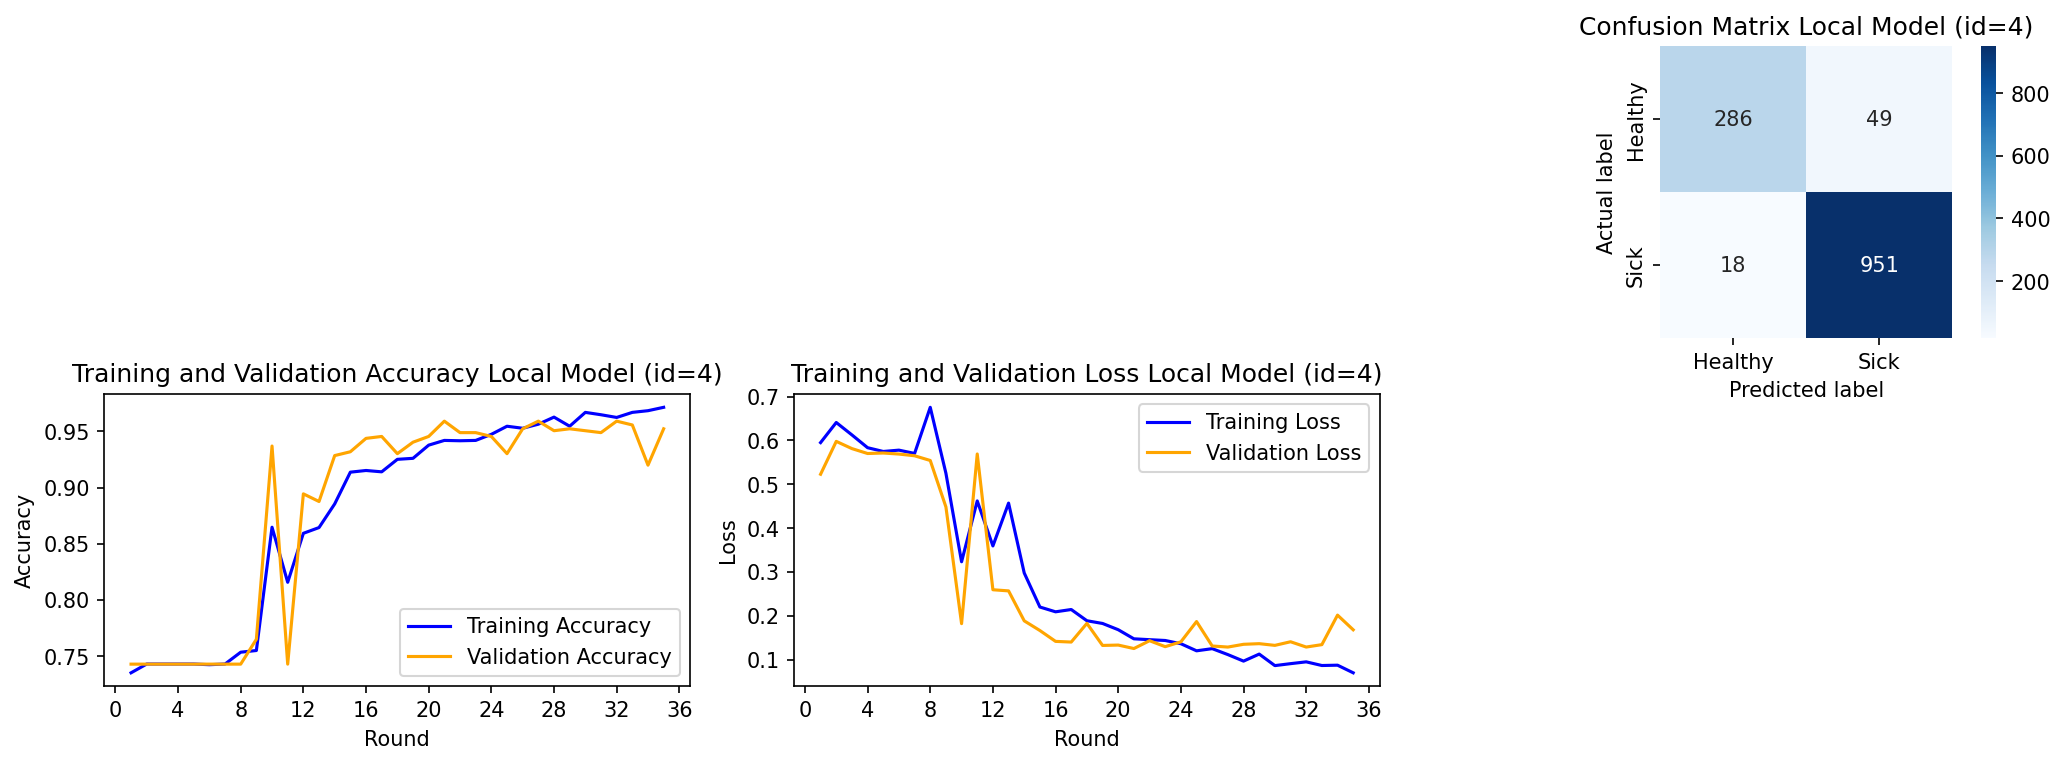
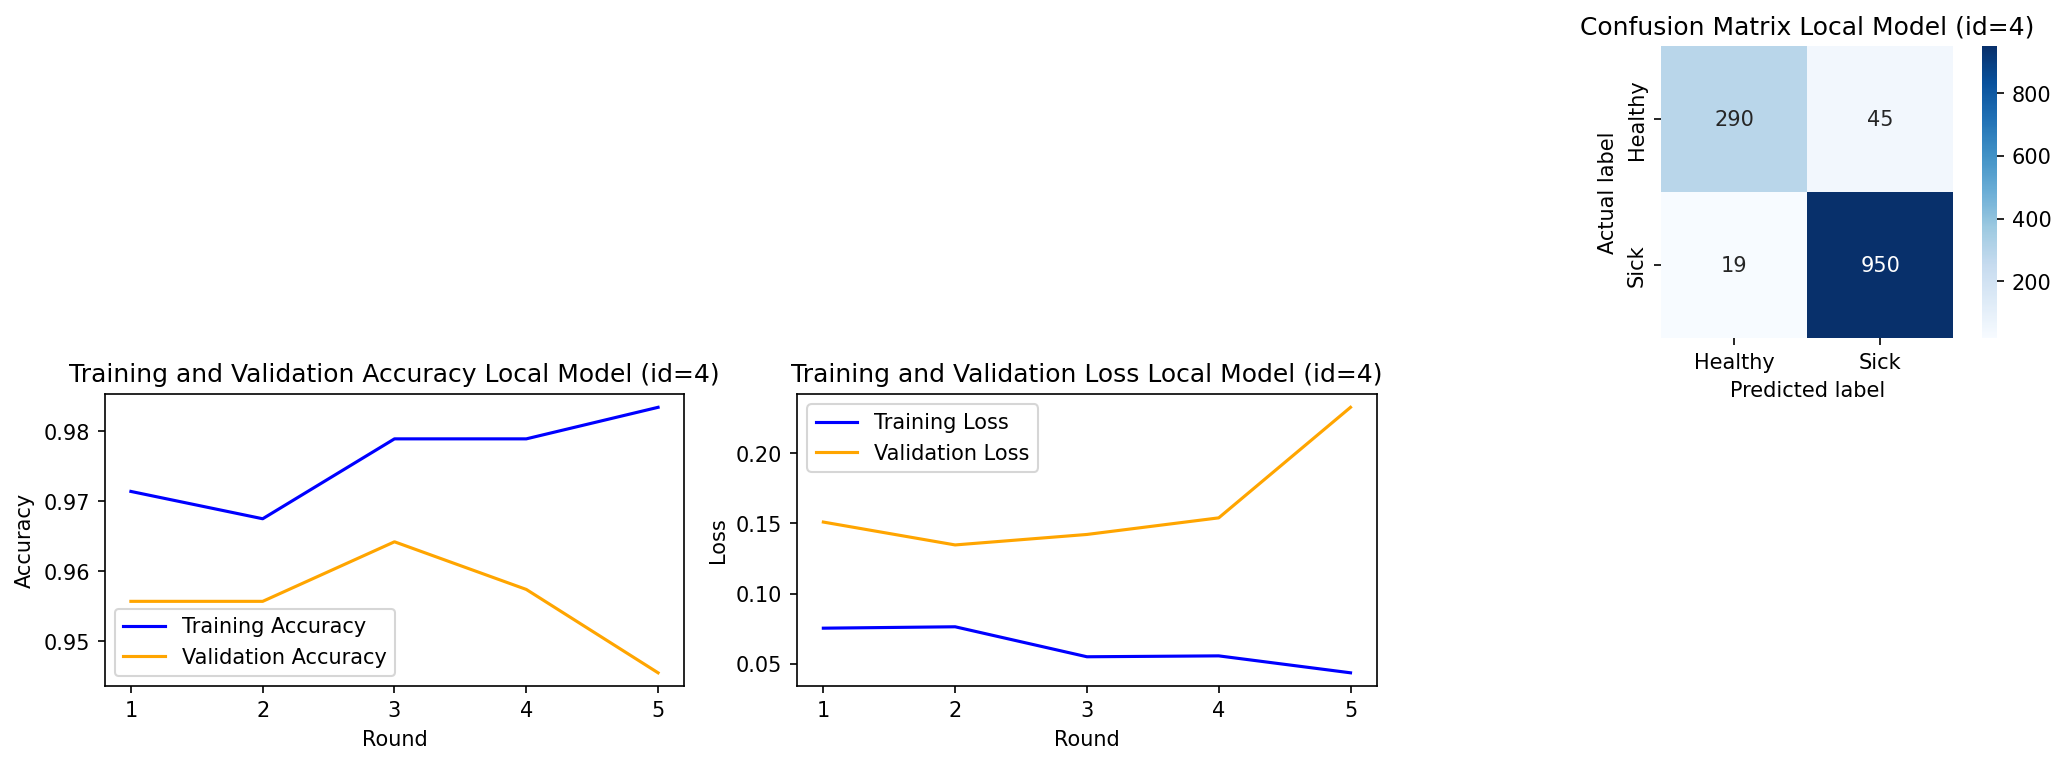
OOD Exp3

diff --git a/project/main.py b/project/main.py
@@ -493,6 +493,110 @@ class Experiment2Simulation():
         return federated.run()
  
  
+class Experiment3Simulation():
+    """
+    3.4.3 Experiment 3: 4 ID local models + 1 OOD local model with complete poisoned dataset.
+    OOD detection ENABLED.
+ 
+    Setup:
+      - Global model (id=0): loads pre-trained weights, tests on all 4 ID datasets.
+      - Local model  (id=1): Btumor4600()        — full ID dataset
+      - Local model  (id=2): Btumor3000()        — full ID dataset
+      - Local model  (id=3): Balzheimer5100()    — full ID dataset
+      - Local model  (id=4): Lpneumonia5200()    — full ID dataset
+      - Local model  (id=5): Balzheimer5100_poisoned() — complete label-flipped OOD dataset
+ 
+    OOD detection is active from round 1. The HDFF mechanism compares each local
+    model's feature bundle to the global model's. If cosine similarity drops below
+    ood_protection_thres (0.7), that client is excluded from FedAvg.
+ 
+    Expected result:
+      - Local model id=5 is identified as OOD every round (similarity << 0.7).
+      - The 4 clean local models contribute normally to FedAvg.
+      - Global model accuracy remains stable or improves across all 5 rounds.
+ 
+    IMPORTANT: Run PreTrainingSimulation first to generate saved weights.
+    """
+    LOAD_ROUND = 35
+    SAVE_PATH  = "./.env/.saved/"
+ 
+    federated_config = ConfigFederated(
+        debug          = True,
+        save           = False,
+        load_round     = LOAD_ROUND,
+        load_reg       = True,                        # Sync all locals from global after load
+        load           = True,                        # Load pre-trained global model
+        delete_on_load = False,
+        path           = SAVE_PATH,
+        rounds         = 5,
+        ood_round      = 1,                           # OOD detection active from round 1
+        clients        = 6,                           # global(0) + 4 ID locals + 1 OOD local
+        participants   = 5,                           # All 5 local clients participate each round
+        host_id        = 0,
+        client_to_dataset = [[0,1,2,3],[0],[1],[2],[3],[4]]
+        # global: all 4 ID datasets for evaluation
+        # local 1 → Btumor4600 (dataset idx 0)
+        # local 2 → Btumor3000 (dataset idx 1)
+        # local 3 → Balzheimer5100 (dataset idx 2)
+        # local 4 → Lpneumonia5200 (dataset idx 3)
+        # local 5 → Balzheimer5100_poisoned (dataset idx 4)  ← OOD
+    )
+    ood_config = ConfigOod(
+        debug               = True,
+        hdc_debug           = False,
+        enabled             = True,                   # OOD detection ENABLED
+        hyper_size          = int(1e4),
+        id_client           = [1, 2, 3, 4],           # Clean local clients
+        ood_client          = [5],                    # Poisoned OOD client
+        ood_protection      = True,                   # Exclude detected OOD clients from FedAvg
+        ood_protection_thres= 0.7                     # Similarity < 0.7 → client is OOD
+    )
+    model_config = ConfigModel(
+        debug          = True,
+        epochs         = 1,
+        activation     = 'relu',
+        activation_out = 'softmax',
+        optimizer      = 'adam',
+        loss           = 'categorical_crossentropy'
+    )
+    dataset_config = ConfigDataset(
+        debug           = False,
+        batch_size      = 64,
+        image_size      = 256,
+        input_shape     = (256,256,1),
+        split           = 0.25,
+        number_of_classes = 2
+    )
+    plot_config = ConfigPlot(plot=False, path='./.env/plot', img_per_class=10)
+ 
+    def run(self):
+        m = Model(
+            model_config   = self.model_config,
+            dataset_config = self.dataset_config,
+            plot_config    = self.plot_config
+        )
+        dataset = Dataset(
+            [
+                (Btumor4600().ID,    Btumor4600(),    []),                        # idx 0  (ID)
+                (Btumor3000().ID,    Btumor3000(),    []),                        # idx 1  (ID)
+                (Balzheimer5100().ID, Balzheimer5100(), []),                      # idx 2  (ID)
+                (Lpneumonia5200().ID, Lpneumonia5200(), []),                      # idx 3  (ID)
+                (Balzheimer5100_poisoned().ID, Balzheimer5100_poisoned(), []),    # idx 4  (OOD)
+            ],
+            dataset_config = self.dataset_config,
+            plot_config    = self.plot_config
+        )
+        federated = Federated(
+            dataset          = dataset,
+            model            = m,
+            federated_config = self.federated_config,
+            ood_config       = self.ood_config,
+            dataset_config   = self.dataset_config,
+            plot_config      = self.plot_config
+        )
+        return federated.run()
+ 
+ 
 if __name__ == "__main__":
     # ── Step 1: Pre-train (run once, then comment out) ──────────────────────
     # sim_pretrain = PreTrainingSimulation()
@@ -503,5 +607,9 @@ if __name__ == "__main__":
     # sim_exp1.run()
  
     # ── Step 3: Experiment 2 — 1 OOD local model, OOD detection ENABLED ────
-    sim_exp2 = Experiment2Simulation()
-    sim_exp2.run()
+    # sim_exp2 = Experiment2Simulation()
+    # sim_exp2.run()
+ 
+    # ── Step 4: Experiment 3 — 4 ID locals + 1 OOD local, OOD detection ENABLED ─
+    sim_exp3 = Experiment3Simulation()
+    sim_exp3.run()
